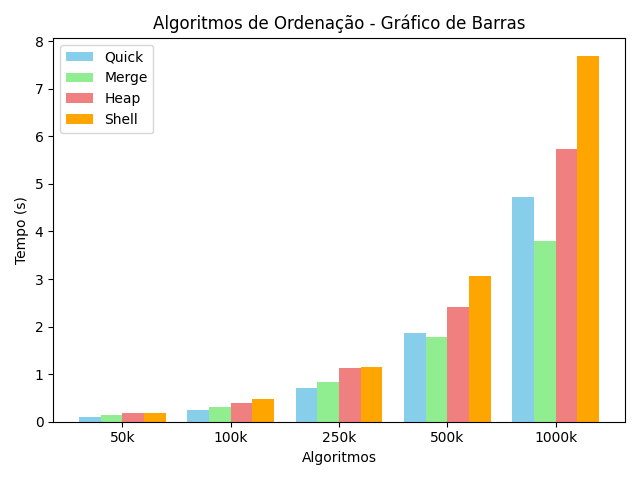
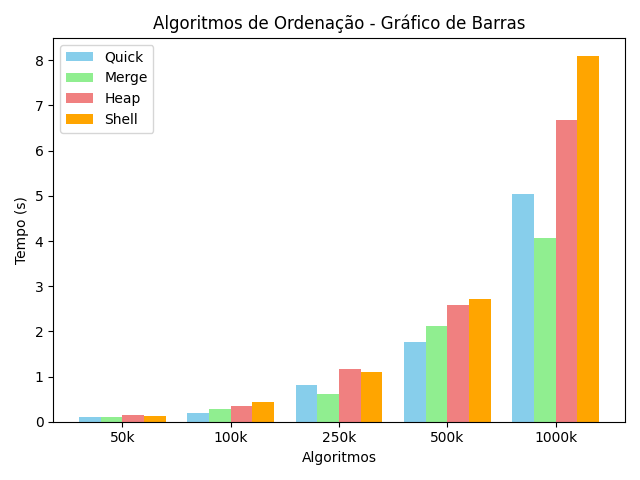
resolvido os tempos da tabela hash

diff --git a/TabelaDeSimbolos/leLeipzig.py b/TabelaDeSimbolos/leLeipzig.py
@@ -2,25 +2,15 @@ import HashTable,TabelaDeSimbolosBuscaBinaria,TabelaDeSimbolosEncadeada
 import menu
 import matplotlib.pyplot as plt
 
-fileName = "TabelaDeSimbolos/leipzig100k.txt"
-tabelas = [HashTable.tabelaHash(227),TabelaDeSimbolosBuscaBinaria.BinarySearchST(),TabelaDeSimbolosEncadeada.TabelaEncadeada()]
+fileName = "ED\TabelaDeSimbolos\leipzig100k.txt"
+tabelas = [HashTable.tabelaHash, TabelaDeSimbolosBuscaBinaria.BinarySearchST, TabelaDeSimbolosEncadeada.TabelaEncadeada]
+parametros = [[227],[],[]]
 tempos = list()
 nomes = ['Tabela Hash','Tabela com Busca Binaria', 'Tabela Encadeada']
 
-for tabela in tabelas:
-    t = tabela
-    tempos.append(menu.calcula_media(fileName,t))
+for i,tabela in enumerate(tabelas):
+    tempos.append(menu.calcula_media(fileName,tabela, parametros[i]))
 
-menu.costruir_grafico(nomes,tempos,Xlabel='Tabelas',Ylabel='Tempos (s)',title='Tabelas de Símbolos')    
-
+menu.costruir_grafico(nomes, tempos,Xlabel='Tabelas', Ylabel='Tempos (s)', title='Tabelas de Símbolos')    
 
 
-
-# print(tabela.countByCapacity())
-# [415, 405, 376, 418, 386, 409, 432, 421, 389, 389, 405, 412, 402, 395, 433, 448, 417, 435, 423, 394, 410, 386, 420, 440, 421, 423, 403, 372, 427, 407, 438, 407, 425, 405, 404, 425, 413, 394, 366, 385, 368, 416, 
-#  416, 409, 413, 398, 406, 375, 394, 420, 429, 406, 394, 421, 422, 399, 399, 362, 377, 390, 417, 419, 408, 396, 416, 376, 430, 413, 378, 414, 421, 382, 423, 420, 363, 420, 419, 412, 401, 404, 393, 411, 435, 392, 
-#  403, 437, 442, 370, 399, 428, 421, 395, 378, 391, 412, 400, 378, 369, 390, 395, 404, 393, 398, 416, 390, 416, 409, 384, 419, 425, 376, 426, 413, 390, 373, 398, 424, 420, 405, 408, 442, 400, 415, 392, 393, 424, 
-#  384, 382, 375, 369, 411, 400, 417, 373, 406, 419, 414, 383, 418, 394, 398, 401, 437, 388, 409, 409, 411, 392, 409, 425, 434, 426, 401, 414, 398, 395, 409, 433, 388, 424, 401, 394, 430, 418, 398, 382, 380, 453, 
-#  393, 419, 388, 418, 414, 413, 384, 360, 397, 410, 474, 440, 401, 398, 397, 377, 441, 410, 431, 400, 404, 
-#  393, 421, 417, 376, 440, 400, 415, 407, 382, 388, 413, 368, 424, 417, 384, 386, 415, 423, 420, 384, 413, 
-#  412, 421, 390, 348, 406, 427, 410, 415, 382, 411, 391, 406, 389, 411, 414, 420, 393]

diff --git a/TabelaDeSimbolos/menu.py b/TabelaDeSimbolos/menu.py
@@ -6,14 +6,14 @@ def conta_tempo(func):
         t1 = time.time()
         result = func(*args)
         t2 = time.time() - t1
-        print(t2)
+        #print(t2)
         return t2
     return wrapper
 #
 @conta_tempo
-def read_from_file(filename:str, tabela, value: int = 0):
+def read_from_file(filename:str, tabela:object, value: int = 0):
     try:
-        with open(filename, 'r') as file:
+        with open(filename, 'r',encoding="utf-8") as file:
             for line in file:
                 words = line.split()
                 for word in words:
@@ -22,9 +22,6 @@ def read_from_file(filename:str, tabela, value: int = 0):
         #save_to_file(tabela.__class__.__name__,tabela.arr)            
     except FileNotFoundError:
         print(f"Arquivo '{filename}' não encontrado.")
-
-def realiza_operacao(arquivo:str, tabela) -> float:
-    return read_from_file(arquivo,tabela)
 '''
 def save_to_file(filename: str, arr,directory="TabelaDeSimbolos/arquivos_salvos"):
     try:
@@ -38,15 +35,15 @@ def save_to_file(filename: str, arr,directory="TabelaDeSimbolos/arquivos_salvos"
         print(f"Erro ao salvar o arquivo: {e}")
         '''
 
-
-def clean_word(word):
-    return re.sub(r"(?<![a-zA-Z])'|'(?![a-zA-Z])|(?<![a-zA-Z0-9])[^\w']+|[^\w']+(?![a-zA-Z0-9])", "", word)
-
-def calcula_media(arquivo:str,tabela, quant:int = 5):
+def calcula_media(arquivo:str,tabela, args:list = [], quant:int = 10):
     sum = 0
     for i in range(quant):
-        sum += realiza_operacao(arquivo, tabela)
+        t = tabela(*args)
+        sum += read_from_file(arquivo, t)
     return sum/quant
+
+def clean_word(word:str) -> str:
+    return re.sub(r"(?<![a-zA-Z])'|'(?![a-zA-Z])|(?<![a-zA-Z0-9])[^\w']+|[^\w']+(?![a-zA-Z0-9])", "", word)
 
 def costruir_grafico(x, y, Xlabel:str,Ylabel:str,title:str,Bar:bool=True, save_path="grafico_tabelas.png",directory="TabelaDeSimbolos/arquivos_salvos"):
     

diff --git a/TabelaDeSimbolos/HashTable.py b/TabelaDeSimbolos/HashTable.py
@@ -46,10 +46,6 @@ class tabelaHash:
         return listaSum
                 
 
-
-
-
-
 if __name__ == "__main__":
     print(hash("pinto"))
     tabela = tabelaHash(5)
@@ -61,4 +57,3 @@ if __name__ == "__main__":
         if i == None:continue
         print(i.key)
     print(tabela.countByCapacity())
-
